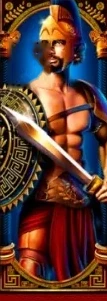
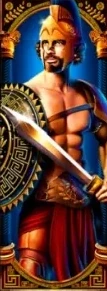
Spartacus: clean face without inpainting, full-figure characters (v71)
Claude-Session: https://claude.ai/code/session_01GACsyhKXrQRPfxxt1WzLhy

diff --git a/js/games/colossal.js b/js/games/colossal.js
@@ -10,8 +10,8 @@
 //    llevaba un Super Espartaco, da un RE-GIRO con los WILD fijos (hasta 9 seguidos). El rodillo 5
 //    del colosal tiene símbolos dobles y WILD con multiplicador x2…x25 (x50 y x100 en giros gratis).
 //    3/4/5+ coliseos = 10/15/20 giros gratis.
-import { glow, goldText, roundRect, rand, FONT, makeCanvas, boltPoints, drawBolt } from '../gfx.js?v=70';
-import { ReelSet, LINES_5x3, weighted } from '../reels.js?v=70';
+import { glow, goldText, roundRect, rand, FONT, makeCanvas, boltPoints, drawBolt } from '../gfx.js?v=71';
+import { ReelSet, LINES_5x3, weighted } from '../reels.js?v=71';
 
 const COLS = 5, ROWS = 4, BIG_ROWS = 12;
 // 40 líneas del tablero principal y 60 del colosal (20 por cada banda de 4 filas)
@@ -261,7 +261,7 @@ function rankIcon(cfg, k, s, x) {
 const SUITS = { heart: 1, spade: 1, diamond: 1, club: 1 };
 const isLow = (cfg, k) => cfg.low.includes(k);
 // Personajes con imagen de cuerpo entero: [imagen, posición horizontal de la cara (0–1)]
-const HEROES = { giant: ['hero', 0.4, [30, 0, 176, 176]], girl: ['gheroine', 0.5, [55, 30, 100, 100]], warrior: ['wartall', 0.5, [0, 14, 75, 75]], helm: ['sptall', 0.5, [6, 18, 95, 95]] };
+const HEROES = { giant: ['hero', 0.4, [30, 0, 176, 176]], girl: ['gheroine', 0.5, [55, 30, 100, 100]], warrior: ['wartall', 0.5, [0, 14, 75, 75]], helm: ['sptall', 0.5, [4, 0, 100, 100]] };
 const heroOf = k => HEROES[k] && IMG[HEROES[k][0]] ? HEROES[k] : null;
 function suitPath(x, k, s) {
   const c = s / 2; x.beginPath();
@@ -520,10 +520,18 @@ class Colossal {
   // Gigante de cuerpo entero: se ve la parte de arriba si la pila es corta
   heroPanel(x, px, py, w, h, frac, k, rim) {
     const [key, fx] = heroOf(k), img = IMG[key]; x.save(); roundRect(x, px + 1.5, py + 1.5, w - 3, h - 3, 6); x.clip();
-    let sh = img.height * Math.max(0.3, frac), sw = sh * w / h;
-    if (sw > img.width) { sw = img.width; sh = sw * h / w; }
-    const sx = Math.max(0, Math.min(img.width - sw, img.width * fx - sw / 2));
-    x.imageSmoothingQuality = 'high'; x.drawImage(img, sx, 0, sw, sh, px, py, w, h);
+    x.imageSmoothingQuality = 'high';
+    if (this.cfg.id === 'spartacus') {
+      // Espartaco y la guerrera se ven completos (de pies a cabeza) sobre su fondo azul, sin recortes
+      x.fillStyle = '#0a1a4a'; x.fillRect(px, py, w, h);
+      const s = Math.min(w / img.width, h / img.height), dw = img.width * s, dh = img.height * s;
+      x.drawImage(img, px + (w - dw) / 2, py + (h - dh) / 2, dw, dh);
+    } else {
+      let sh = img.height * Math.max(0.3, frac), sw = sh * w / h;
+      if (sw > img.width) { sw = img.width; sh = sw * h / w; }
+      const sx = Math.max(0, Math.min(img.width - sw, img.width * fx - sw / 2));
+      x.drawImage(img, sx, 0, sw, sh, px, py, w, h);
+    }
     x.restore(); x.strokeStyle = rim || (k === 'girl' ? '#ff8ad0' : '#ffd24a'); x.lineWidth = 2.5; roundRect(x, px + 1.5, py + 1.5, w - 3, h - 3, 6); x.stroke();
   }
   // Heroína (marco rosado) o guerrera (arco de bronce) de tamaño completo en la pila
@@ -603,7 +611,7 @@ class Colossal {
       const per = Math.max(1, Math.round(w * 0.85 / cellH)), n = Math.max(1, Math.round(h / (cellH * per))), sh = h / n, sz = Math.min(w, sh) * 0.98;
       for (let i = 0; i < n; i++) x.drawImage(symIcon(cfg, sup ? cfg.super : cfg.wild, sz * this.app.dpr), px + (w - sz) / 2, py + i * sh + (sh - sz) / 2, sz, sz);
     } else {
-      if (IMG.sptall) { const img = IMG.sptall, s2 = Math.max(w / img.width, h / img.height); x.imageSmoothingQuality = 'high'; x.drawImage(img, px + (w - img.width * s2) * 0.35, py, img.width * s2, img.height * s2); if (sup) { x.globalCompositeOperation = 'overlay'; x.fillStyle = 'rgba(255,200,60,0.45)'; x.fillRect(px, py, w, h); x.globalCompositeOperation = 'source-over'; } }
+      if (IMG.sptall) { const img = IMG.sptall, s2 = Math.min(w / img.width, h / img.height); x.fillStyle = '#0a1a4a'; x.fillRect(px, py, w, h); x.imageSmoothingQuality = 'high'; x.drawImage(img, px + (w - img.width * s2) / 2, py + (h - img.height * s2) / 2, img.width * s2, img.height * s2); if (sup) { x.globalCompositeOperation = 'overlay'; x.fillStyle = 'rgba(255,200,60,0.45)'; x.fillRect(px, py, w, h); x.globalCompositeOperation = 'source-over'; } }
       else { const bs = Math.min(w * 0.92, h * 0.62); art(x, 'bust', px + (w - bs) / 2, py + h * 0.08, bs, bs, 1); }
     }
     x.globalCompositeOperation = 'lighter'; x.globalAlpha = 0.18 + 0.12 * Math.sin(time * 4 + c);

diff --git a/js/app.js b/js/app.js
@@ -1,19 +1,19 @@
-import { sfx, usableVoices } from './audio.js?v=70';
-import { loadAtlas, clearSpriteCache, Particles, goldText, ease, glow, clamp, FONT, rand } from './gfx.js?v=70';
-import { sleep } from './reels.js?v=70';
-import XLink from './games/xlink.js?v=70';
-import Avalanche from './games/avalanche.js?v=70';
-import FireWheel from './games/firewheel.js?v=70';
-import Legion from './games/legion.js?v=70';
-import Bull from './games/bull.js?v=70';
-import Dragon from './games/dragon.js?v=70';
-import Codex from './games/codex.js?v=70';
-import Reef from './games/reef.js?v=70';
-import Western from './games/western.js?v=70';
-import Galaxy from './games/galaxy.js?v=70';
-import { RedDream, SnowKingdom, loadThemeArt, sheetIconStyle } from './games/xthemes.js?v=70';
-import Wolf, { loadWolfArt } from './games/wolf.js?v=70';
-import { GiantGold, Spartacus, loadColossalArt } from './games/colossal.js?v=70';
+import { sfx, usableVoices } from './audio.js?v=71';
+import { loadAtlas, clearSpriteCache, Particles, goldText, ease, glow, clamp, FONT, rand } from './gfx.js?v=71';
+import { sleep } from './reels.js?v=71';
+import XLink from './games/xlink.js?v=71';
+import Avalanche from './games/avalanche.js?v=71';
+import FireWheel from './games/firewheel.js?v=71';
+import Legion from './games/legion.js?v=71';
+import Bull from './games/bull.js?v=71';
+import Dragon from './games/dragon.js?v=71';
+import Codex from './games/codex.js?v=71';
+import Reef from './games/reef.js?v=71';
+import Western from './games/western.js?v=71';
+import Galaxy from './games/galaxy.js?v=71';
+import { RedDream, SnowKingdom, loadThemeArt, sheetIconStyle } from './games/xthemes.js?v=71';
+import Wolf, { loadWolfArt } from './games/wolf.js?v=71';
+import { GiantGold, Spartacus, loadColossalArt } from './games/colossal.js?v=71';
 
 const GAMES = [XLink, RedDream, SnowKingdom, Wolf, Avalanche, FireWheel, Legion, Bull, Dragon, Codex, Reef, Western, Galaxy, GiantGold, Spartacus];
 const BETS = [10, 20, 30, 50, 100, 200, 500];

diff --git a/sw.js b/sw.js
@@ -1,6 +1,6 @@
 // Caché offline: la app funciona sin conexión una vez abierta.
-const CACHE = 'aurum-v70';
-const V = '?v=70';
+const CACHE = 'aurum-v71';
+const V = '?v=71';
 const FILES = ['./', './index.html', './css/app.css' + V, './js/app.js' + V, './js/audio.js' + V, './js/gfx.js' + V, './js/reels.js' + V,
   './js/games/xlink.js' + V, './js/games/avalanche.js' + V, './js/games/firewheel.js' + V, './js/games/legion.js' + V, './js/games/bull.js' + V, './js/games/dragon.js' + V, './js/games/codex.js' + V, './js/games/reef.js' + V, './js/games/western.js' + V, './js/games/galaxy.js' + V, './js/games/xthemes.js' + V, './js/games/wolf.js' + V, './js/games/colossal.js' + V,
   './assets/symbols.webp', './assets/themes.webp', './assets/wolf.webp', './assets/colossal.webp', './assets/giant_hero.webp', './assets/giant_sky.webp', './assets/giant_heroine.webp', './assets/giant_sym.webp', './assets/giant_scene.webp', './assets/sparta_sym.webp', './assets/sparta_tall.webp', './assets/sparta_wtall.webp', './assets/sparta_scene.webp', './assets/sfx/howl.wav', './assets/sfx/bonus_in1.mp3', './assets/sfx/bonus_in2.mp3', './assets/sfx/levelup2.mp3', './assets/sfx/levelup3.mp3', './assets/sfx/coin_loop.mp3', './assets/sfx/jackpot2.mp3', './assets/sfx/jackpot3.mp3', './assets/sfx/youwin1.mp3', './assets/sfx/youwin2.mp3', './assets/sfx/youwin3.mp3', './assets/sfx/sparta_fs.mp3', './assets/sfx/sparta_antic.mp3', './assets/sfx/real_1.mp3', './assets/sfx/real_2.mp3', './assets/sfx/real_3.mp3', './assets/sfx/real_4.mp3', './assets/sfx/real_5.mp3', './assets/sfx/real_6.mp3', './assets/sfx/real_7.mp3', './assets/sfx/real_8.mp3', './assets/sfx/real_9.mp3', './assets/sfx/real_10.mp3', './assets/sfx/real_11.mp3', './assets/sfx/real_12.mp3', './assets/sfx/real_13.mp3', './assets/sfx/real_14.mp3', './assets/sfx/real_15.mp3', './assets/voice/index.json', './icon-180.png', './icon-512.png', './manifest.webmanifest'];

diff --git a/js/games/xlink.js b/js/games/xlink.js
@@ -3,8 +3,8 @@
 // hasta 8 filas y 100 líneas. 6+ bolas doradas activan GOLDEN SPINS: las bolas quedan fijas,
 // 3 giros que se reinician con cada bola nueva y filas que se desbloquean con rayos al
 // acumular 8 · 12 · 17 · 23 · 30 bolas. Tablero lleno (40) = GRAND.
-import { S, sym, ball, jackpotRibbonBall, cashBall, spinsBall, specialIcon, spriteURL, bolt, electricRing, glow, goldText, roundRect, ease, rand, makeCanvas, FONT } from '../gfx.js?v=70';
-import { ReelSet, LINES_5x3, weighted } from '../reels.js?v=70';
+import { S, sym, ball, jackpotRibbonBall, cashBall, spinsBall, specialIcon, spriteURL, bolt, electricRing, glow, goldText, roundRect, ease, rand, makeCanvas, FONT } from '../gfx.js?v=71';
+import { ReelSet, LINES_5x3, weighted } from '../reels.js?v=71';
 
 const COLS = 5, MAXR = 8, BASE_R = 3;
 const TEASE = 0.07, TEASE_EDGE = 0.18, GHOST_P = 0.4; // bolas extra detrás de la cortina (efecto "casi")

diff --git a/js/games/galaxy.js b/js/games/galaxy.js
@@ -3,8 +3,8 @@
 // llega hasta el ÚLTIMO rodillo aparece uno nuevo a la derecha y gira solo, hasta 15 rodillos.
 // Llegar a 8 / 10 / 12 / 15 rodillos = MINI / MINOR / MAJOR / GRAND.
 // 3+ portales = 8 giros gratis con multiplicador que sube +1 por cada rodillo nuevo y no se reinicia.
-import { S, sym, glow, goldText, roundRect, rand, FONT, makeCanvas } from '../gfx.js?v=70';
-import { ReelSet, weighted } from '../reels.js?v=70';
+import { S, sym, glow, goldText, roundRect, rand, FONT, makeCanvas } from '../gfx.js?v=71';
+import { ReelSet, weighted } from '../reels.js?v=71';
 
 const ROWS = 3, START = 3, MAXC = 15;
 export const P = { sun: 1, diamond: 0.8, rstar: 0.6, bstar: 0.5, gstar: 0.4, snow: 0.4, K: 0.2, Q: 0.2, J: 0.15, ten: 0.15 };

diff --git a/js/games/avalanche.js b/js/games/avalanche.js
@@ -2,8 +2,8 @@
 // 6x5, pagos en cualquier posición (8+ iguales). Los símbolos ganadores estallan en hielo y
 // caen nuevos (cascadas). Multiplicador base x1→x2→x3→x5 por cascada. 4+ copos = 10 giros
 // gratis con multiplicador progresivo que NO se reinicia (+1 por cada cascada ganadora).
-import { S, sym, ball, jackpotBall, shortMoney, glow, goldText, roundRect, ease, rand, FONT, makeCanvas, electricRing } from '../gfx.js?v=70';
-import { weighted } from '../reels.js?v=70';
+import { S, sym, ball, jackpotBall, shortMoney, glow, goldText, roundRect, ease, rand, FONT, makeCanvas, electricRing } from '../gfx.js?v=71';
+import { weighted } from '../reels.js?v=71';
 
 const COLS = 6, ROWS = 5;
 export const PAY = {

diff --git a/js/games/wolf.js b/js/games/wolf.js
@@ -3,8 +3,8 @@
 // Los símbolos altos también caen apilados. Atrapasueños BONUS solo en los rodillos 2, 3 y 4:
 // 3 = 5 giros gratis con WILDS APILADOS REFORZADOS (se repiten: +5).
 // Progresivos: rodillos llenos de WILD a la vez → 2 MINI · 3 MINOR · 4 MAJOR · 5 GRAND.
-import { S, glow, goldText, roundRect, rand, FONT, makeCanvas } from '../gfx.js?v=70';
-import { ReelSet, LINES_5x3, weighted } from '../reels.js?v=70';
+import { S, glow, goldText, roundRect, rand, FONT, makeCanvas } from '../gfx.js?v=71';
+import { ReelSet, LINES_5x3, weighted } from '../reels.js?v=71';
 
 const COLS = 5, ROWS = 4;
 // 40 líneas: los 20 patrones de 3 filas en las bandas de arriba y de abajo, sin repetir, más zigzags

diff --git a/js/games/codex.js b/js/games/codex.js
@@ -2,8 +2,8 @@
 // El CÓDICE es wild y dispersor a la vez: 3+ en cualquier lugar = 10 giros gratis. Antes de
 // empezar se elige al azar un SÍMBOLO ESPECIAL; en los giros gratis, si aparece en suficientes
 // rodillos se EXPANDE a todo el rodillo y paga en las 10 líneas aunque no esté contiguo.
-import { S, sym, glow, goldText, roundRect, ease, rand, FONT, makeCanvas } from '../gfx.js?v=70';
-import { ReelSet, LINES_5x3, weighted } from '../reels.js?v=70';
+import { S, sym, glow, goldText, roundRect, ease, rand, FONT, makeCanvas } from '../gfx.js?v=71';
+import { ReelSet, LINES_5x3, weighted } from '../reels.js?v=71';
 
 const COLS = 5, ROWS = 3, NL = 10;
 const LINES = LINES_5x3.slice(0, NL);

diff --git a/js/games/reef.js b/js/games/reef.js
@@ -3,8 +3,8 @@
 // estalla un grupo queda MARCADA; si vuelve a estallar ahí se enciende un multiplicador x2 que
 // se duplica cada vez (x4, x8 … x128). Un grupo sobre casillas encendidas se multiplica por la
 // suma de sus multiplicadores. 3+ perlas = giros gratis donde las marcas NO se borran.
-import { S, sym, ball, glow, goldText, roundRect, rand, FONT, makeCanvas } from '../gfx.js?v=70';
-import { weighted } from '../reels.js?v=70';
+import { S, sym, ball, glow, goldText, roundRect, rand, FONT, makeCanvas } from '../gfx.js?v=71';
+import { weighted } from '../reels.js?v=71';
 
 const COLS = 7, ROWS = 7;
 // Pago (× apuesta) según tamaño del grupo: 5, 6, 7, 8, 9-10, 11-12, 13-14, 15+

diff --git a/js/games/firewheel.js b/js/games/firewheel.js
@@ -1,8 +1,8 @@
 // RUEDA DE FUEGO · clásico 3x3, 5 líneas.
 // El WILD de fuego solo cae en el rodillo central: se expande a todo el rodillo y duplica
 // las líneas donde participa. 3 soles = RUEDA DE FUEGO con multiplicadores y 4 jackpots.
-import { S, sym, glow, goldText, roundRect, ease, rand, FONT } from '../gfx.js?v=70';
-import { ReelSet, LINES_3x3, weighted, weightedIdx } from '../reels.js?v=70';
+import { S, sym, glow, goldText, roundRect, ease, rand, FONT } from '../gfx.js?v=71';
+import { ReelSet, LINES_3x3, weighted, weightedIdx } from '../reels.js?v=71';
 
 export const PAY = { seven: 60, bell: 24, melon: 18, grapes: 18, plum: 9, orange: 9, cherry: 6 };
 const W_REEL = [

diff --git a/js/games/western.js b/js/games/western.js
@@ -3,8 +3,8 @@
 // avanza un rodillo a la izquierda hasta salir del tablero. Mientras quede alguno en pantalla
 // se sigue re-girando. 3/4/5/6+ forajidos a la vez = MINI/MINOR/MAJOR/GRAND.
 // 3+ estrellas de sheriff = 10 giros gratis donde cada forajido en una línea la multiplica x2.
-import { S, sym, glow, goldText, roundRect, ease, rand, FONT, makeCanvas } from '../gfx.js?v=70';
-import { ReelSet, LINES_5x3, weighted } from '../reels.js?v=70';
+import { S, sym, glow, goldText, roundRect, ease, rand, FONT, makeCanvas } from '../gfx.js?v=71';
+import { ReelSet, LINES_5x3, weighted } from '../reels.js?v=71';
 
 const COLS = 5, ROWS = 3;
 export const PAY = {

diff --git a/js/games/xthemes.js b/js/games/xthemes.js
@@ -4,8 +4,8 @@
 // las filas cerradas son paneles rojos. Reino de Nieve paga por líneas y el hielo es una lámina escarchada.
 //  · SUEÑO ROJO: pagoda roja, paneles lacados con borlas, rodillos de jade, cerezos en flor.
 //  · REINO DE NIEVE: castillo de hielo, paneles escarchados, aurora, carámbanos y nevada.
-import { S, glow, goldText, rand, FONT, makeCanvas } from '../gfx.js?v=70';
-import XLink, { THEME, PAY, linesFor } from './xlink.js?v=70';
+import { S, glow, goldText, rand, FONT, makeCanvas } from '../gfx.js?v=71';
+import XLink, { THEME, PAY, linesFor } from './xlink.js?v=71';
 
 const MAXR = 8, BASE_R = 3;
 // Filas activas → formas de ganar
